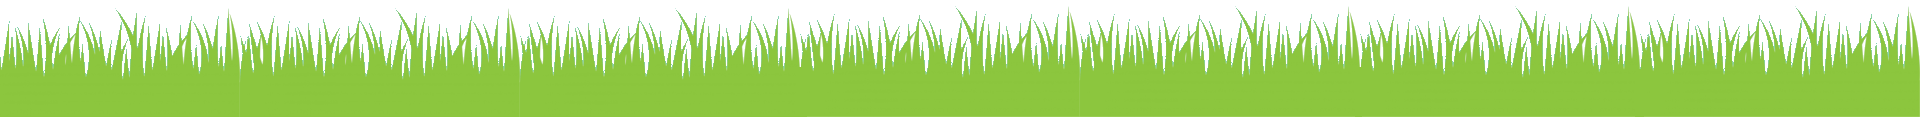
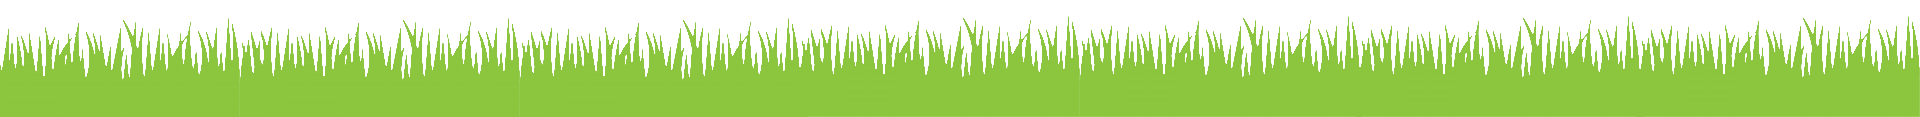
creating scss files

Changed region(s): [[0.0, 0.1538, 1.0, 0.5897], [0.8438, 0.5641, 0.875, 0.5897]]

diff --git a/client/src/components/Footer.jsx b/client/src/components/Footer.jsx
@@ -1,7 +1,14 @@
+import grass from '../assets/Green-grass-clipart-free-pictures.png'
+// The footer should contain group members with their linkedIn and Github accts linked.
+// Also any relevant links that go on a footer(e.g. the about page)
+
 function Footer(){
     return (
         <footer className="flex flex-row items-center justify-between">
-            <p>Weener</p>
+            <img src={grass} alt="Grass"></img>
+            <div>
+                <p>people who contributed to project</p>
+            </div>
         </footer>
     )
 }

diff --git a/client/src/styles/index.scss b/client/src/styles/index.scss
@@ -78,18 +78,21 @@ footer{
   bottom:0;
   left:0;
   right:0;
-  background:#669900;
-  height:35px;
+  // background:#669900;
+  height:120px;
+  img{
+    filter: blur(3px);
+  }
   p{
+    position:absolute;
     margin:auto;
     padding:0;
     font-size:.8rem;
+    left:0;
+    right:0;
+    bottom:0;
   }
 }
-
-
-
-
 
 .modak-regular {
   font-family: "Modak", system-ui;

diff --git a/client/src/pages/Homepage.jsx b/client/src/pages/Homepage.jsx
@@ -6,7 +6,7 @@ import { useState } from 'react'
 import { getUserName } from '../../services/userService';
 import AdminControl from '../components/AdminControl-2';
 import CowPatternBg from '../components/CowPatternBg';
-import '../styles/components/homepage.scss'
+import '../styles/pages/homepage.scss'
 
 function Homepage() {
 

diff --git a/client/src/pages/NewJournalEntryPage.jsx b/client/src/pages/NewJournalEntryPage.jsx
@@ -1,3 +1,6 @@
+// This page will show when you want to do a new journal entry
+// DO NOT WORK ON THIS PAGE -- we need to figure out the Heavy/Light journaling features
+
 function NewJournalEntry(){
     return (
         <>

diff --git a/client/src/pages/AboutPage.jsx b/client/src/pages/AboutPage.jsx
@@ -1,4 +1,5 @@
 import CowPatternBg from "../components/CowPatternBg"
+import '../styles/pages/aboutPage.scss'
 
 // page to explain the app and the reasons why(mental health)
 function AboutPage() {

diff --git a/client/src/pages/SignUpPage.jsx b/client/src/pages/SignUpPage.jsx
@@ -1,3 +1,5 @@
+// Create a signup form with an email, username and password input boxes
+
 function SignUp(){
     return (
         <>

diff --git a/client/src/pages/LoginPage.jsx b/client/src/pages/LoginPage.jsx
@@ -1,3 +1,6 @@
+// Create a login form with an email and password input boxes
+
+
 function Login(){
     return (
         <>
